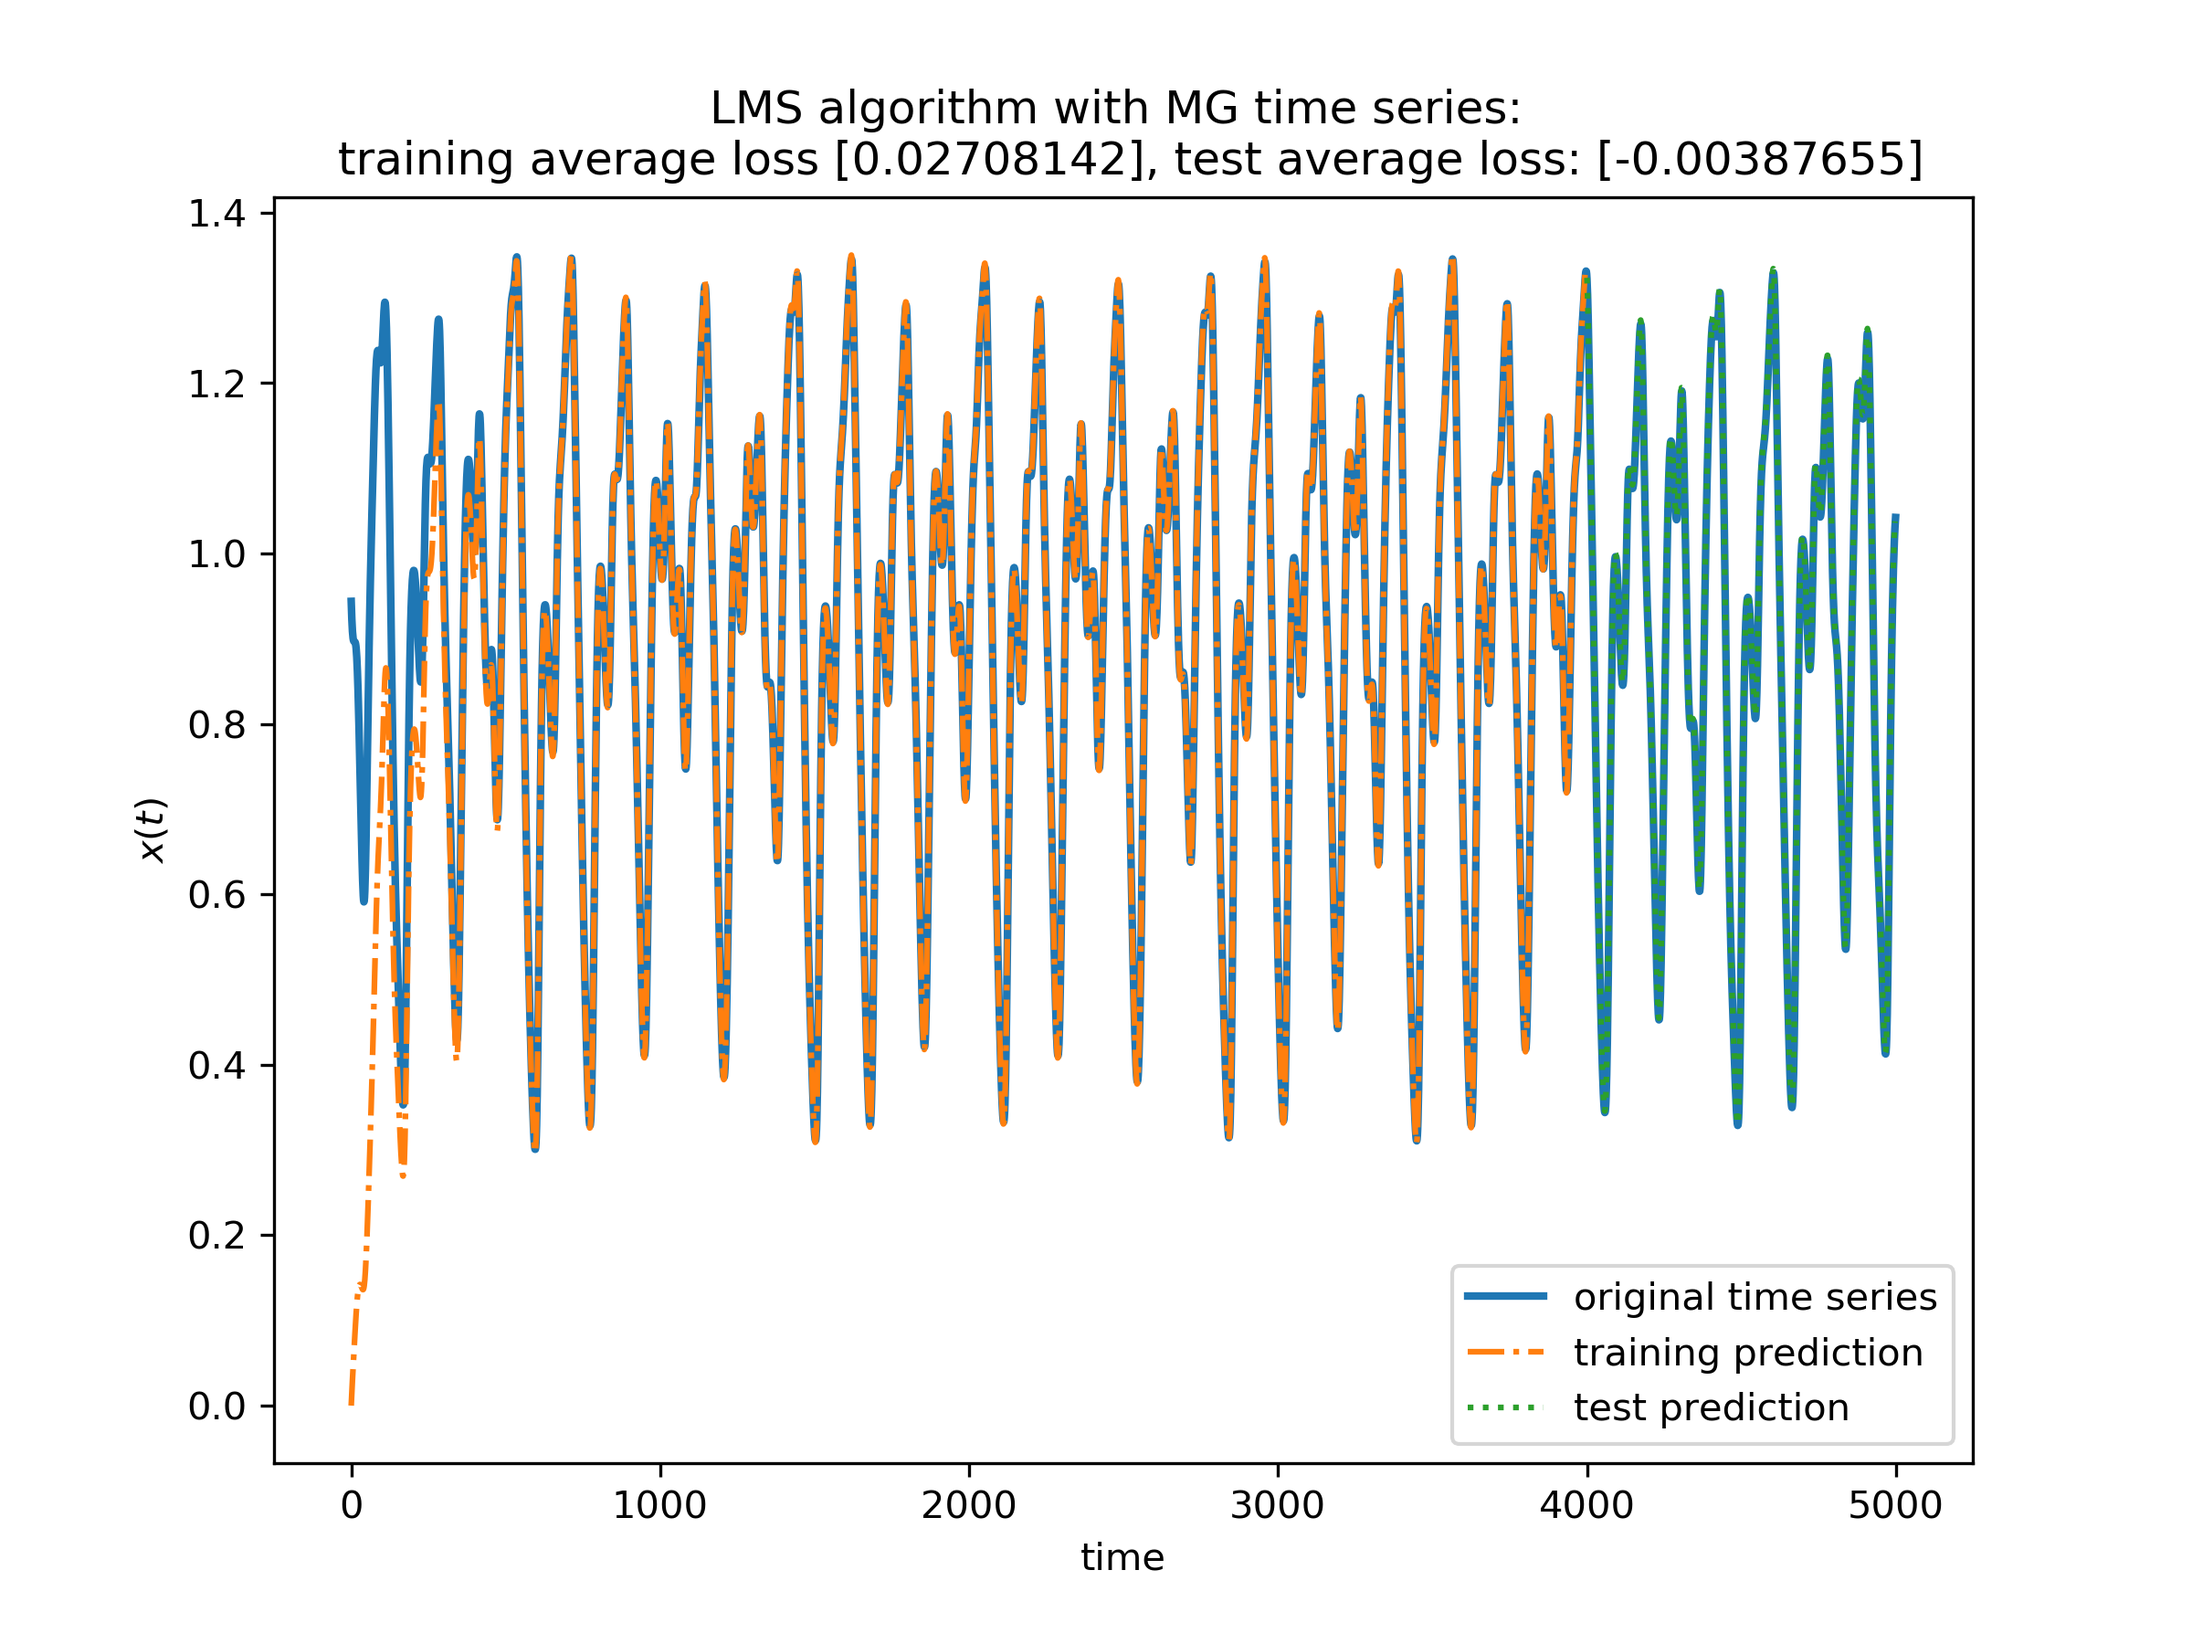
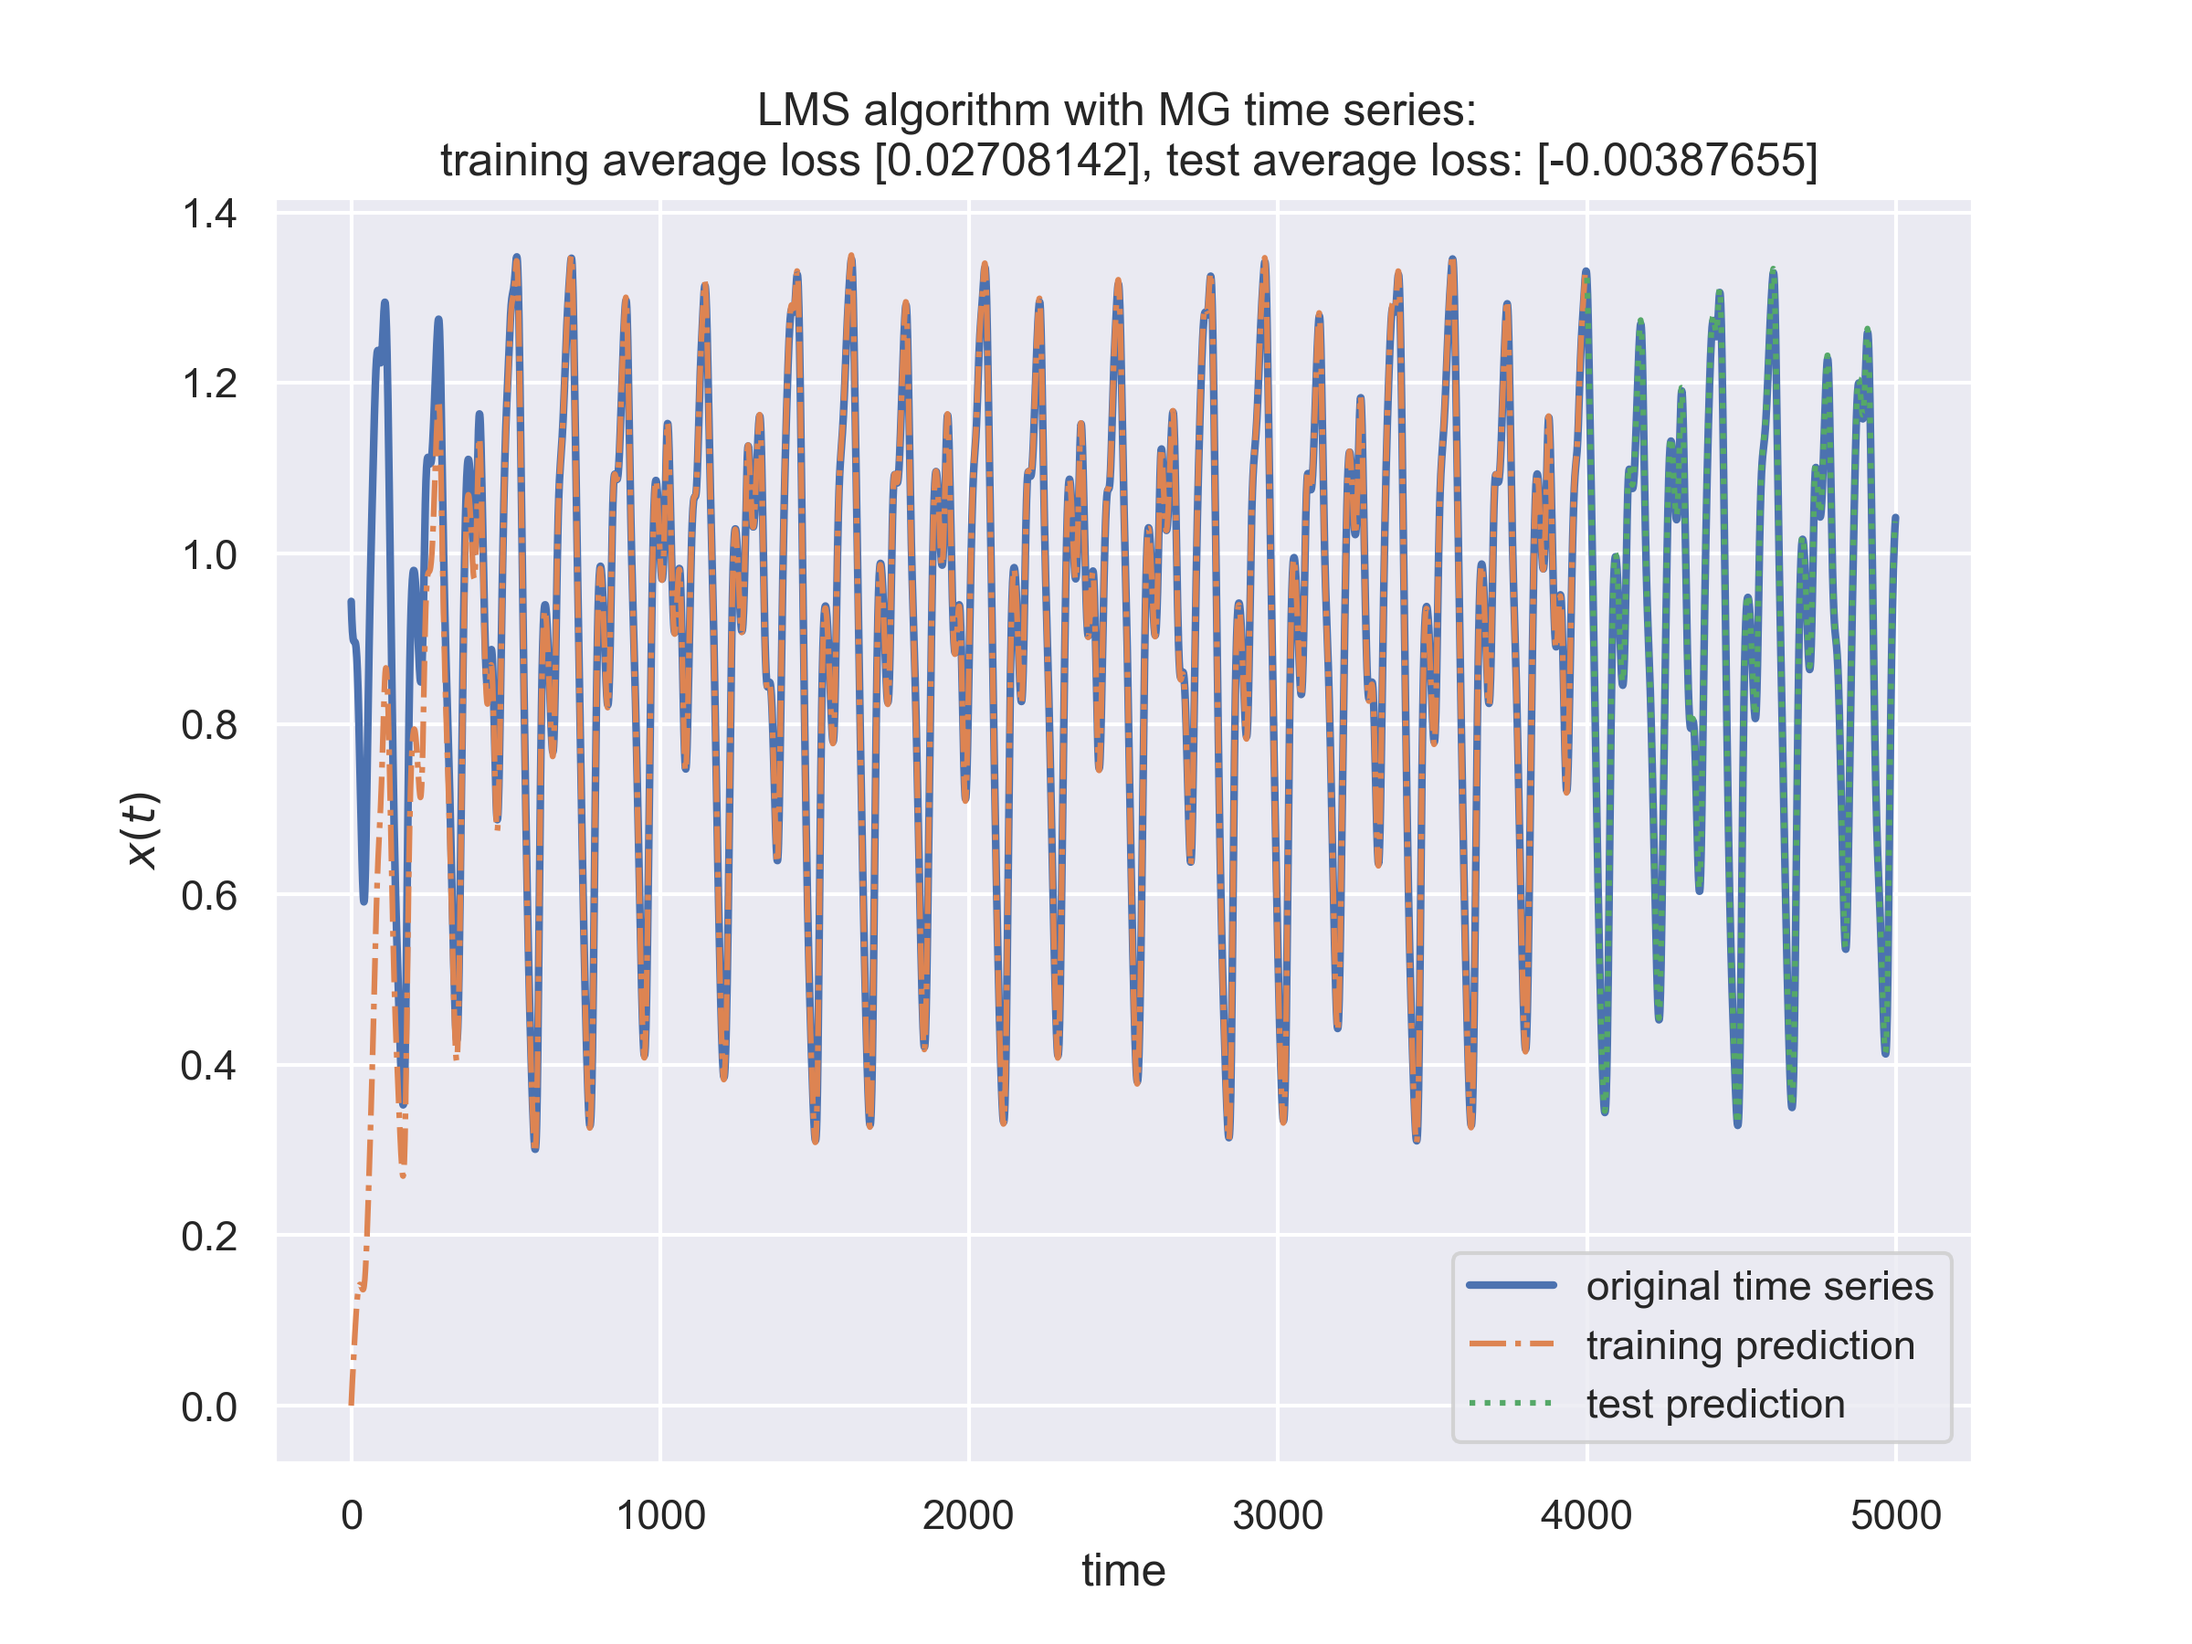
All the tests are completed. Comments added.

diff --git a/assignment01/widrow_hoff.py b/assignment01/widrow_hoff.py
@@ -2,11 +2,16 @@
 EEE511 team assignment 01 - team 03
 
 widrow_hoff LMS algorithm
+
+Widrow, Bernard, and Marcian E. Hoff. Adaptive switching circuits. 
+No. TR-1553-1. Stanford Univ Ca Stanford Electronics Labs, 1960.
 """
 
+# Dependencies
 import numpy as np
 import matplotlib.pyplot as plt
 import argparse
+import seaborn as sns; sns.set()
 import os
 
 
@@ -15,7 +20,6 @@ parser = argparse.ArgumentParser(description='Widrow Hoff LMS algorithm')
 # parameters
 parser.add_argument('--epochs', type=int, default=1, help='number of iterations')
 parser.add_argument('--eta', default=5e-3, type=float)
-parser.add_argument('--theta', type=float)
 parser.add_argument('--time_step', type=int, default=2, help='the number of samples extracted from the time series in each epoch')
 
 # results saving
@@ -30,13 +34,13 @@ def main():
     else:
         print(f'save path already exist')
 
-    train_target_path = './mackey-glass/data/mg_series_5000.npy'           # dataset (time series)
+    train_target_path = './mackey-glass/data/mg_series_5000.npy'                                # dataset (time series)
 
-    weights = np.zeros([args.time_step, 1])                                # initialize the weight vector as a t_step by 1 vector
+    weights = np.zeros([args.time_step, 1])                                                     # initialize the weight vector as a t_step by 1 vector
 
-    dataset = dataloader(train_target_path)
+    dataset = dataloader(train_target_path)                                                     # load the full size mackey glass series
 
-    train_target = dataset[:4000]
+    train_target = dataset[:4000]                                                               # split the dataset into training set & test set
     test_target = dataset[4000:5000]
 
     print(f"number of samples for training: {train_target.shape}")
@@ -44,16 +48,19 @@ def main():
 
 
     for epoch in range(args.epochs):
-        train_pred, weights, train_loss, train_mse = train(args.eta, train_target, weights)
-        test_pred, test_loss, test_mse = test(test_target, weights, epoch, args.save_path)
+        train_pred, weights, train_loss, train_mse = train(args.eta, train_target, weights)     # training phase
+        test_pred, test_loss, test_mse = test(test_target, weights)                             # test phase
 
         print(f'[Epoch: {epoch+1}], training error: {train_mse}, test loss: {test_mse}')
 
+    # plot the prediction
     plt.figure(figsize=(8,6))
     
     plt.plot(range(dataset.shape[0]), dataset, linewidth=2, label='original time series')
-    plt.plot(range(train_target.shape[0]-args.time_step), train_pred, linestyle='-.', label='training prediction')
-    plt.plot(range(train_target.shape[0], train_target.shape[0] + test_target.shape[0]-args.time_step), test_pred, linestyle=':', label='test prediction')
+    plt.plot(range(train_target.shape[0]-args.time_step), 
+            train_pred, linestyle='-.', label='training prediction')
+    plt.plot(range(train_target.shape[0], train_target.shape[0] + test_target.shape[0]-args.time_step), 
+            test_pred, linestyle=':', label='test prediction')
 
     plt.title(f'LMS algorithm with MG time series: \n training average loss {train_mse[0]}, test average loss: {test_mse[0]}')
     plt.xlabel('time')
@@ -65,13 +72,29 @@ def main():
 
     plt.close()
 
-        
+
+    # plot the loss
+    plt.figure(figsize=(8,8))
+    plt.plot(range(train_target.shape[0]-args.time_step), abs(train_loss), linewidth=2)
+    plt.xlabel('time')
+    plt.ylabel('Training loss $|d(t)-y(t)|$')
+    plt.grid(True)
+
+    plt.savefig(args.save_path+'training_loss.png', dpi=300)
+
+    plt.close()
 
 def dataloader(target_path):
     """
     Load the pre-generated dataset from makey_glass time series
+    ------
+    Parameters
+    target_path: the directory of the dataset
+
+    out:
+    target: numpy array of the dataset
     """
-    target = np.load(target_path)                                          # load the target
+    target = np.load(target_path)                                                              # load the dataset
     # print(f'size of the dataset: {dataset.shape}')
     
     return target
@@ -79,42 +102,62 @@ def dataloader(target_path):
 
 def train(eta, target, weight):
     """
-    LMS algorithm training
+    LMS algorithm training function
+    ------
+    Parameters:
+    eta: learning rate of the algorithm
+    target: training set
+    weight: weight value of the connection
+
+    out:
+    Numpy array of the time series prediction
+    Updated weights
+    Training loss (numpy array)
+    mse: average training loss
     """
-    loss_sum = 0
+    loss_sum = 0                                                                            # initialize the sum of the loss
 
     series_pred = []
     series_loss = []
 
     for ii in range(target.shape[0]-args.time_step):  
         
-        t_start, t_end = ii, ii + args.time_step
+        t_start, t_end = ii, ii + args.time_step                                            # begining of the window & end of the window
 
-        x = target[t_start: t_end].reshape(args.time_step, 1)
-        y_true = target[t_end]
+        x = target[t_start: t_end].reshape(args.time_step, 1)                               # pick the current + past data
+        y_true = target[t_end]                                                              # target output
 
-        y_pred = weight.T @ x
-        loss = (y_true - y_pred)
+        y_pred = weight.T @ x                                                               # linear combination 
+        loss = (y_true - y_pred)                                                            # compute the loss
 
         if ii % 50 == 0:
-            print(f'training loss: {loss}')
+            print(f'training loss: {loss[0]}')                                              # print the loss every 50 samples
 
-        weight = weight + eta * loss * x
+        weight = weight + eta * loss * x                                                    # update the weights
 
         loss_sum += loss
 
         series_pred.append(y_pred[0])
         series_loss.append(loss[0])
     
-    mse = loss_sum / target.shape[0]
+    mse = loss_sum / target.shape[0]                                                        # compute the average training loss
 
 
     return np.array(series_pred), weight, np.array(series_loss), mse
 
 
-def test(target, weight, epoch, save_path):
+def test(target, weight):
     """
     LMS algorithm for Mackey Glass Time Series prediction
+    -----
+    Parameters:
+    Target: test set of the algorithm
+    Weight: weights of the connections
+
+    out:
+    Numpy array of the time series prediction
+    Test loss (numpy array)
+    Average test loss
     """
     loss_sum = 0
 
@@ -123,23 +166,23 @@ def test(target, weight, epoch, save_path):
 
     for ii in range(target.shape[0]-args.time_step): 
         
-        t_start, t_end = ii, ii + args.time_step
+        t_start, t_end = ii, ii + args.time_step                                        # begining of the window & end of the window
 
-        x = target[t_start: t_end].reshape(args.time_step, 1)
-        y_true = target[t_end]
+        x = target[t_start: t_end].reshape(args.time_step, 1)                           # pick the current + past data
+        y_true = target[t_end]                                                          # target output
 
-        y_pred = weight.T @ x
-        loss = (y_true - y_pred)
+        y_pred = weight.T @ x                                                           # linear combination 
+        loss = (y_true - y_pred)                                                        # compute the loss
 
         if ii % 50 == 0:
-            print(f'test loss: {loss}')
+            print(f'test loss: {loss[0]}')
 
         loss_sum += loss
 
         series_pred.append(y_pred[0])
         series_loss.append(loss[0])
 
-    mse = loss_sum / target.shape[0]
+    mse = loss_sum / target.shape[0]                                                    # compute the average training loss
 
     return np.array(series_pred), np.array(series_loss), mse
 
